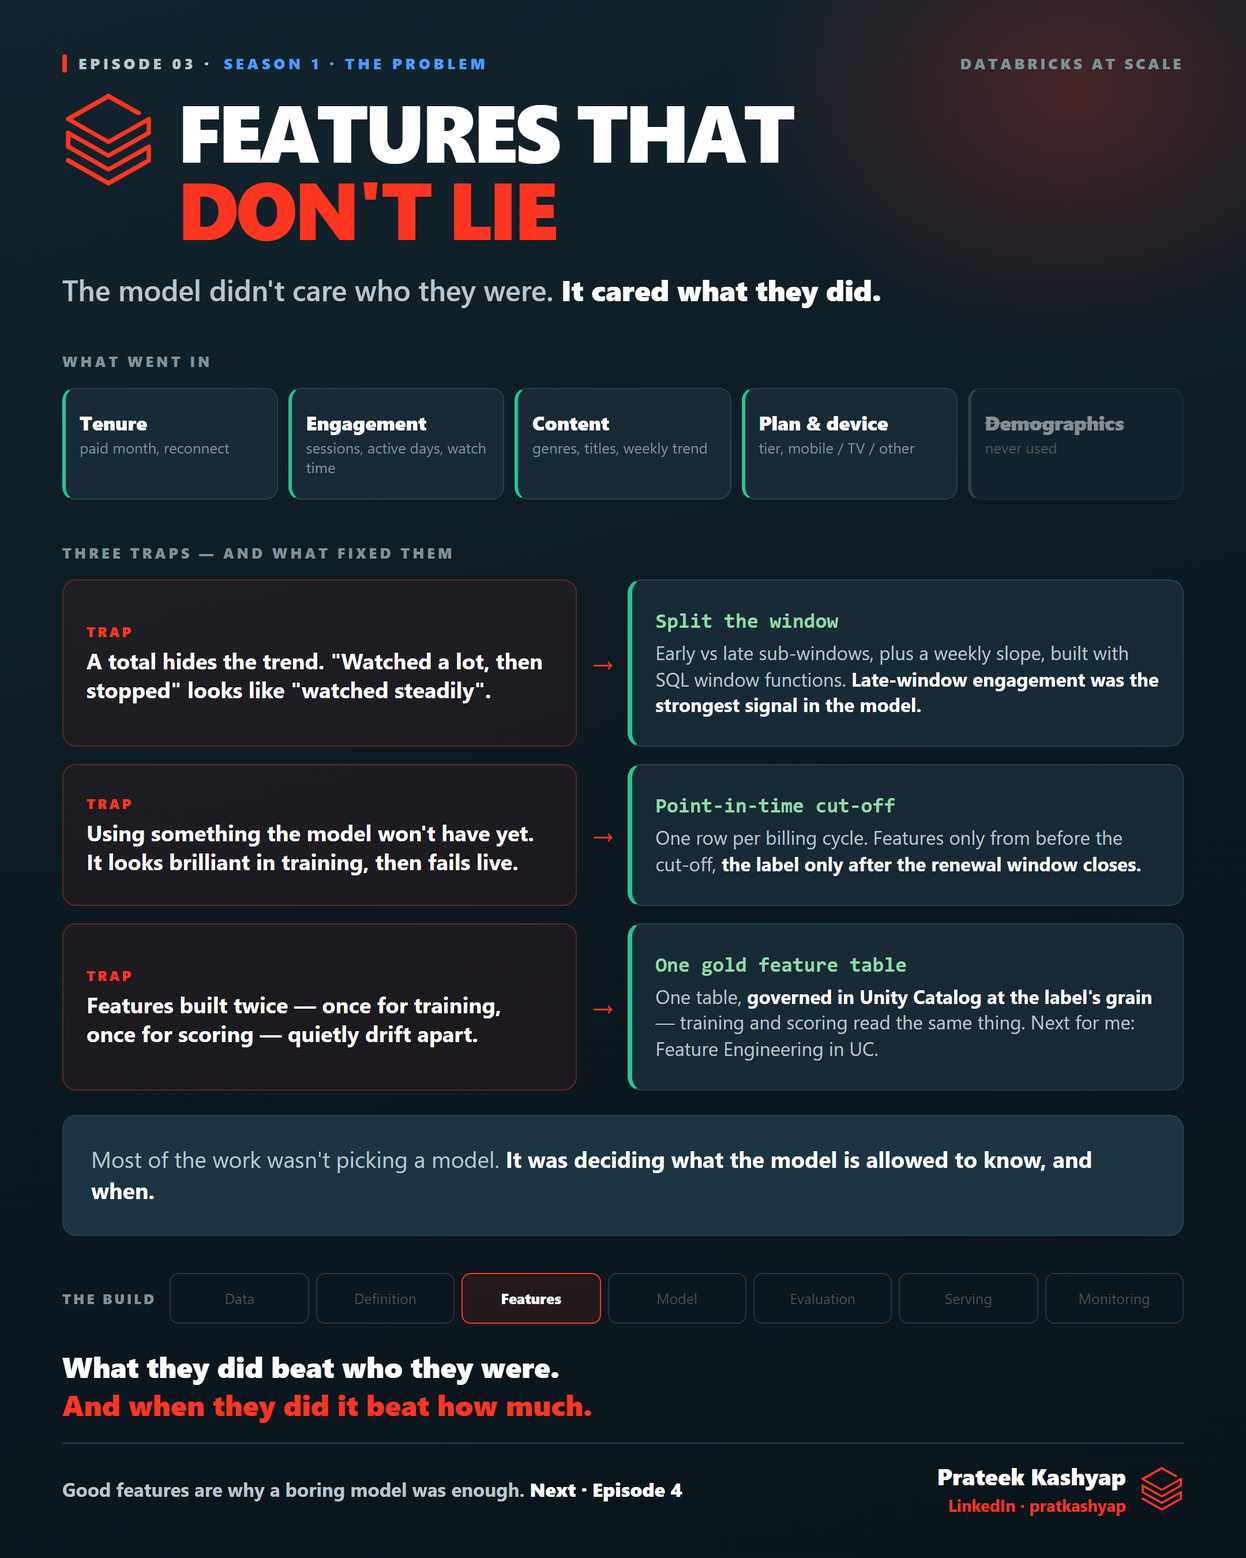
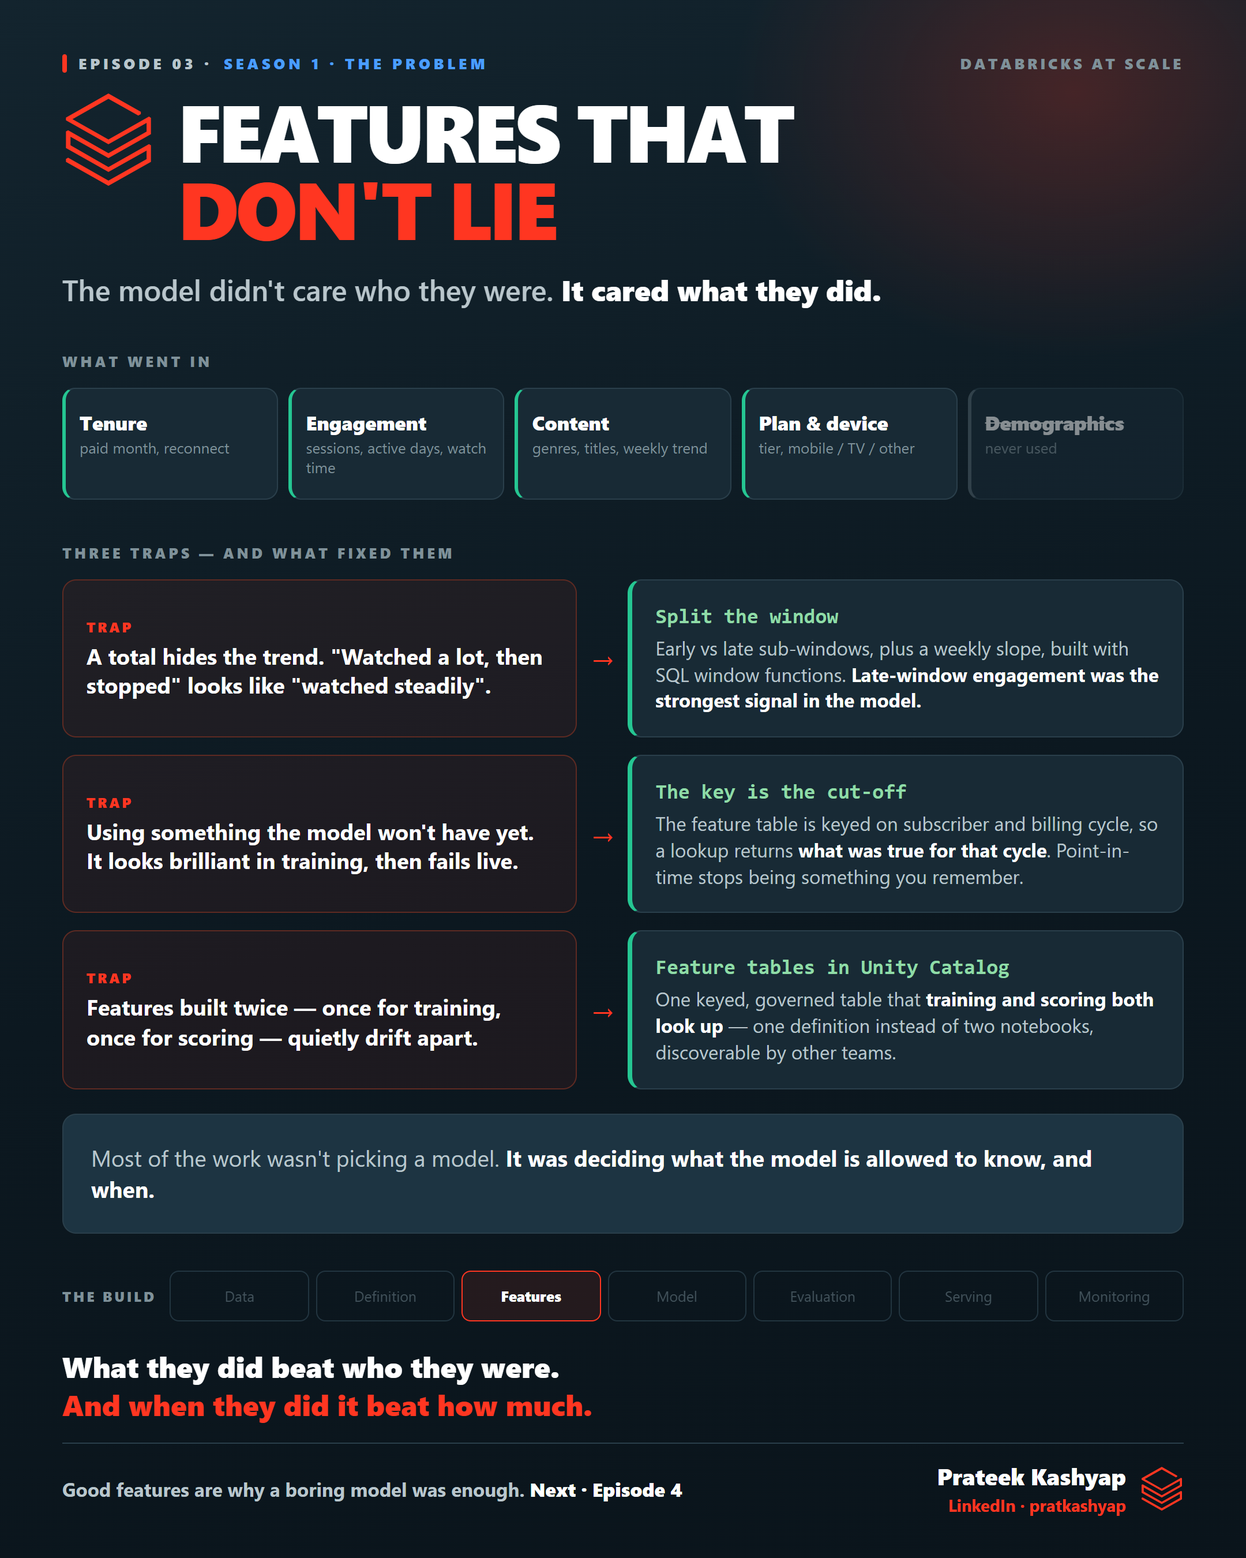
Correction: Feature Engineering in Unity Catalog was used; rebuild Episode 03
Prateek confirmed he registered feature tables in Unity Catalog and used them
for training and scoring. The discovery doc said the opposite (Q18, flagged as
partly inferred) and that error had shaped the whole episode.

- Trap 2's answer is now "let the key carry the cut-off" - the feature table is
  keyed on subscriber and billing cycle, so a lookup returns what was true for
  that cycle
- Trap 3's answer is now feature tables in Unity Catalog: one keyed, governed
  table that training and scoring both look up
- "Next for me" moves from the Feature Store to online lookup
- learn.md gains a proper section on feature tables - the declared key, shared
  lookups, governance and lineage, and reuse by other teams
- docs/private corrected in place, old answer struck through not deleted
- Rule added: confirm every partially-inferred discovery answer before it
  shapes an episode

diff --git a/episodes/03-features-that-dont-lie/ep03-poster.html b/episodes/03-features-that-dont-lie/ep03-poster.html
@@ -42,11 +42,11 @@
 
   /* problem -> answer */
   .pair{display:grid;grid-template-columns:1fr 44px 1.08fr;align-items:stretch;margin-bottom:15px}
-  .pb{background:rgba(255,54,33,.07);border:1.5px solid #5e2a22;border-radius:12px;padding:24px 20px;display:flex;flex-direction:column;justify-content:center}
+  .pb{background:rgba(255,54,33,.07);border:1.5px solid #5e2a22;border-radius:12px;padding:20px 20px;display:flex;flex-direction:column;justify-content:center}
   .pb .n{font-size:12px;font-weight:800;letter-spacing:.16em;text-transform:uppercase;color:var(--red);margin-bottom:5px}
   .pb .t{font-size:19px;font-weight:700;line-height:1.32;color:#fff}
   .ar{display:flex;align-items:center;justify-content:center;color:var(--red);font-size:24px;font-weight:700}
-  .an{background:var(--card);border:1.5px solid var(--line);border-left:4px solid var(--good);border-radius:12px;padding:24px 20px}
+  .an{background:var(--card);border:1.5px solid var(--line);border-left:4px solid var(--good);border-radius:12px;padding:20px 20px}
   .an .tool{font-family:Consolas,"SF Mono",Menlo,monospace;font-size:18px;font-weight:700;color:#8fdba7}
   .an .t{font-size:16.5px;color:var(--ink2);line-height:1.38;margin-top:5px}
   .an .t b{color:#fff}
@@ -102,15 +102,15 @@
   <div class="pair">
     <div class="pb"><div class="n">Trap</div><div class="t">Using something the model won't have yet. It looks brilliant in training, then fails live.</div></div>
     <div class="ar">→</div>
-    <div class="an"><div class="tool">Point-in-time cut-off</div>
-      <div class="t">One row per billing cycle. Features only from before the cut-off, <b>the label only after the renewal window closes.</b></div></div>
+    <div class="an"><div class="tool">The key is the cut-off</div>
+      <div class="t">The feature table is keyed on subscriber and billing cycle, so a lookup returns <b>what was true for that cycle</b>. Point-in-time stops being something you remember.</div></div>
   </div>
 
   <div class="pair">
     <div class="pb"><div class="n">Trap</div><div class="t">Features built twice — once for training, once for scoring — quietly drift apart.</div></div>
     <div class="ar">→</div>
-    <div class="an"><div class="tool">One gold feature table</div>
-      <div class="t">One table, <b>governed in Unity Catalog at the label's grain</b> — training and scoring read the same thing. Next for me: Feature Engineering in UC.</div></div>
+    <div class="an"><div class="tool">Feature tables in Unity Catalog</div>
+      <div class="t">One keyed, governed table that <b>training and scoring both look up</b> — one definition instead of two notebooks, discoverable by other teams.</div></div>
   </div>
 
   <div class="rule">Most of the work wasn't picking a model. <b>It was deciding what the model is allowed to know, and when.</b></div>

diff --git a/episodes/03-features-that-dont-lie/ep03-learn.md b/episodes/03-features-that-dont-lie/ep03-learn.md
@@ -87,6 +87,8 @@ Three rules that prevent it:
 
 This is **point-in-time correctness**: every row answers "what did we know at the moment we'd have had to decide?" Get it wrong and every number downstream — the metric in Episode 05, the business case in Episode 09 — is inflated.
 
+The thing that made this reliable rather than careful was **putting the period into the key**. The feature table is keyed on subscriber *and* billing cycle, so looking up features for a row returns what was true for that cycle. Correctness comes from the structure rather than from remembering to filter dates in every new query — which is the kind of discipline that survives other people joining the project.
+
 ## 6. Trap 3 — features built twice drift apart
 
 In this project the features are built in SQL and published as a **gold feature table**, then the training notebook does the last mile: one-hot encoding the categories, log-scaling the skewed counts, filling the gaps.
@@ -98,11 +100,22 @@ Two defences:
 - **One governed table** that both training and scoring read, rather than two notebooks each building their own. It lives in Unity Catalog at the same grain as the label, so the two join cleanly, the access rules are the same as the rest of the data, and another team can discover and reuse it instead of rebuilding it.
 - **Shared code for the last mile.** The encoding and filling rules live in one importable place, not copy-pasted into two scripts.
 
-### What I'd do differently, and am learning next
+### Feature tables in Unity Catalog
 
-Databricks has a product for exactly this: **Feature Engineering in Unity Catalog** (the Feature Store). A feature table there has a **primary key and a timestamp**, so the platform can do a *point-in-time lookup* — fetch each row's features as they were at that moment — and serve the same definitions at scoring time.
+This is where the platform does real work, and it's the part I'd most recommend to anyone starting now.
 
-I hand-rolled all of that. It works, but the correctness depends on my SQL rather than on the platform. Moving the assembled features into a UC feature table is the clearest upgrade in the whole project, and it's next on my list.
+A **feature table** in Unity Catalog isn't just a table that happens to contain features. It is registered as a feature table, which means:
+
+- It has a **declared primary key**. Here that key is subscriber plus billing cycle — the same grain as the label — so a lookup can only return the right row for the right period.
+- Training and scoring **look up the same table** rather than each rebuilding features. That removes the most common cause of skew at its source.
+- It carries the **governance and lineage** of everything else in Unity Catalog: the same access rules, and a visible link from the features to the model that used them.
+- Other teams can **discover and reuse it**. A feature someone else has already defined, tested and monitored is worth more than a better one you build privately.
+
+The lesson that transfers: a feature table is a *contract between training and scoring*, in the same way Episode 01's metric definition was a contract between teams. Both work for the same reason — the definition lives in one governed place instead of being re-derived by whoever needs it next.
+
+### What's next for me
+
+Today the lookups happen in batch: features are fetched when the nightly scoring job runs. The next step is **online lookup**, so the same features can answer a real-time question — a decision at the moment someone clicks cancel, rather than a score computed last night.
 
 ## 7. What it cost
 
@@ -111,7 +124,7 @@ I hand-rolled all of that. It works, but the correctness depends on my SQL rathe
 | Behaviour over demographics | A stronger model, no personal data to govern | Nothing to say about subscribers with almost no activity |
 | Splitting the window | The single strongest signal in the model | Many more columns to build and monitor |
 | Strict point-in-time cut-off | Numbers that survive contact with production | Lower training scores — honest ones |
-| Hand-rolled feature table | Full control, no new product to learn | Correctness rests on my code, and the last mile can drift |
+| Feature tables in Unity Catalog | One definition for training and scoring, with governance and lineage | A product to learn, and feature changes now need versioning discipline |
 
 ## 8. What you can copy
 
@@ -120,7 +133,7 @@ I hand-rolled all of that. It works, but the correctness depends on my SQL rathe
 - [ ] Check every feature against one question: *would I have had this value at prediction time?*
 - [ ] Keep the **last mile of transformation in one shared place**, not in two notebooks
 - [ ] Test behaviour features before enriching demographics — behaviour usually wins
-- [ ] If you're starting now, use a **feature store with a primary key and timestamp** rather than hand-rolling point-in-time logic
+- [ ] Register features as a **feature table with a declared key**, rather than a plain table you join by hand — the key is what makes correctness structural
 
 ## 9. Key terms
 

diff --git a/.claude/skills/databricks-at-scale/SKILL.md b/.claude/skills/databricks-at-scale/SKILL.md
@@ -37,7 +37,7 @@ Trailer 00 (posted 2026-09-11) · **S1 The Problem:** 01 Nobody agreed what chur
 
 ## Building an episode
 
-1. Read `PROGRESS.md`, `design/design-log.md` §3 (settled rules) and `docs/private/discovery_answers.md` for the facts.
+1. Read `PROGRESS.md`, `design/design-log.md` §3 (settled rules) and `docs/private/discovery_answers.md` for the facts. **Any answer there flagged 🟡 *partially known / templated* must be confirmed with Prateek before it shapes an episode** — one such answer (Feature Store) was wrong and reshaped Episode 03.
 2. **`learn.md`**: situation → why it matters → the concepts → the decision in the project → the Databricks part (with illustrative SQL or code using generic names) → what it cost → what you can copy → key terms → check yourself → next episode.
 3. **`epNN-post.md`**: summarise `epNN-learn.md` in **the house style set by the published trailer** (design-log Ref 06 and **Ref 07**, which has the finalised template — heading line `Databricks at Scale · Ep N · Title`, no blank line after it, lead-ins merged onto their first sentence, a space before colons, no repo-link line, long tag block): no emoji in the body, no capitalised headings, no separator lines, short paragraphs, bold key phrases only, `→` lists, a bold sentence lead-in ending in `:` for each section, a one-line forward pointer to the next episode, then about 10 hashtags. Say "Intelligent Churn Prediction System" and "Global markets". Bold with Unicode (convert `**x**` markers with the bold map; see `design-log.md`). Keep product names and "Databricks" in plain text in the body so search can find them. Aim for 1,500–2,200 of LinkedIn's 3,000 characters, and make sure the first 210 characters carry the hook.
 4. **`poster.html`**: **the three-band template** — (1) *the problem*: a source → three real failures → the consequence; (2) *the fix*: the Databricks answer as the middle band, drawn as boxes with arrows; (3) *the decision*: two cards. Then the build strip, the takeaway, the footer. **No code on posters** — code lives in `learn.md`. Aim for 150–200 words. Netflix style with a dark Databricks-navy gradient, the logo on the title line, 1080×1350 and minimal text. **Every poster must pass three checks:** (a) the *logo test* — cover the logo and something still identifies Databricks; (b) the series name appears on it; (c) at least one **concrete mechanism** — a real name, command or snippet — not just a claim like "governed". Carry the **"you are here" stack strip** (churn label → features → training → registry → scores → monitoring, with Unity Catalog and Asset Bundles beneath), lighting this episode's box and dimming the rest. Export with `python design/export_png.py episodes/NN-name/poster.html`, fix any overflow warning, then **look at the PNG**.
@@ -71,6 +71,7 @@ Trailer 00 (posted 2026-09-11) · **S1 The Problem:** 01 Nobody agreed what chur
 - **2026-09-11**: Skill created. Trailer posted. Episode 01 drafted. Repo pushed to GitHub (private). Structure: `learn.md` is the detailed doc and `post.md` is the summary. PNG export moved to a Playwright script, because headless Edge was unreliable.
 - **2026-09-11**: Full brand-name scan (all files, git history, GitHub metadata): clean. "No employer or brand names" made an explicit rule. `LinkedIn Posters/` renamed to `LinkedIn/`, and each episode folder now holds post, poster and article.
 - **2026-09-11**: Repo made public at Prateek's request.
+- **2026-10-22**: Correction — Feature Engineering in UC *was* used; Episode 03 rebuilt around feature tables and the discovery doc fixed. Confirm 🟡 answers before building.
 - **2026-10-22**: Episode 03 built. Added `design/check_repo.py` after a spacing regression and four broken links slipped through; it now runs before every push.
 - **2026-09-29**: House style captured from the published trailer (Ref 06) and applied to Episodes 01 and 02; the trailer is now recorded verbatim as published.
 - **2026-09-29**: When editing files in place, encode the text before opening the file for writing. A failed write truncated `design-log.md` to zero bytes and it had to be restored from git.

diff --git a/episodes/03-features-that-dont-lie/ep03-post.md b/episodes/03-features-that-dont-lie/ep03-post.md
@@ -1,7 +1,7 @@
 # Episode 03 · LinkedIn post
 
 > The four feature families, then each trap paired with its fix, then the bridge into Episode 04. The poster shows the same families and the same three pairs.
-> Copy the box, paste into LinkedIn, attach [`ep03-poster.png`](ep03-poster.png). **2,322 of 3,000 characters.** Full detail: [`ep03-learn.md`](ep03-learn.md).
+> Copy the box, paste into LinkedIn, attach [`ep03-poster.png`](ep03-poster.png). **2,649 of 3,000 characters.** Full detail: [`ep03-learn.md`](ep03-learn.md).
 
 ```
 𝗗𝗮𝘁𝗮𝗯𝗿𝗶𝗰𝗸𝘀 𝗮𝘁 𝗦𝗰𝗮𝗹𝗲 · 𝗘𝗽 𝟯 · 𝗙𝗲𝗮𝘁𝘂𝗿𝗲𝘀 𝘁𝗵𝗮𝘁 𝗱𝗼𝗻'𝘁 𝗹𝗶𝗲
@@ -34,13 +34,15 @@ No demographics. What people did predicted leaving far better than who they were
 → 𝗦𝗽𝗹𝗶𝘁 𝘁𝗵𝗲 𝘄𝗶𝗻𝗱𝗼𝘄 : early vs late sub-windows and a weekly slope. Late-window engagement turned out to be the strongest signal in the model.
 
 𝟮. Using something the model won't have yet. Brilliant in training, fails live.
-→ A 𝗽𝗼𝗶𝗻𝘁-𝗶𝗻-𝘁𝗶𝗺𝗲 𝗰𝘂𝘁-𝗼𝗳𝗳 : features only from before the cut-off, the label only after the renewal window closes.
+→ 𝗟𝗲𝘁 𝘁𝗵𝗲 𝗸𝗲𝘆 𝗰𝗮𝗿𝗿𝘆 𝘁𝗵𝗲 𝗰𝘂𝘁-𝗼𝗳𝗳 : the feature table is keyed on subscriber and billing cycle, so a lookup returns what was true for that cycle. Point-in-time correctness stops being something you have to remember.
 
 𝟯. Features built twice — once for training, once for scoring — quietly drift apart.
-→ 𝗢𝗻𝗲 𝗴𝗼𝗹𝗱 𝗳𝗲𝗮𝘁𝘂𝗿𝗲 𝘁𝗮𝗯𝗹𝗲, governed in Unity Catalog at the same grain as the label, so training and scoring read the same thing — and other teams can find it.
+→ 𝗙𝗲𝗮𝘁𝘂𝗿𝗲 𝘁𝗮𝗯𝗹𝗲𝘀 𝗶𝗻 𝗨𝗻𝗶𝘁𝘆 𝗖𝗮𝘁𝗮𝗹𝗼𝗴 : one keyed, governed table that training and scoring both look up. One definition, not two notebooks — and other teams can find and reuse it.
 
 
-𝗡𝗲𝘅𝘁 𝗳𝗼𝗿 𝗺𝗲: Feature Engineering in Unity Catalog, so point-in-time lookups are the platform's job instead of mine.
+This is the part I'd most recommend to anyone starting now. A feature table is not just a table with features in it : the key, the governance and the lineage back to the model are what stop quiet drift.
+
+𝗡𝗲𝘅𝘁 𝗳𝗼𝗿 𝗺𝗲: online lookups, so the same features can serve a real-time decision and not only tonight's batch.
 
 𝗪𝗵𝗮𝘁 𝗶𝘁 𝗰𝗼𝘀𝘁: lower training scores. Honest ones.
 
@@ -51,12 +53,12 @@ Good features are why a boring model was enough.
 
 Next Episode 4 · 𝗪𝗵𝘆 𝘁𝗵𝗲 𝗯𝗼𝗿𝗶𝗻𝗴 𝗺𝗼𝗱𝗲𝗹 𝘄𝗼𝗻 drops next week.
 
-#Databricks #DataScience #MachineLearning #Analytics #Lakehouse #FeatureStore #dataengineering #mlops #churn #SingaporeAI #agenticAI Databricks Anthropic Microsoft Microsoft Copilot #Dubai #Singapore #TechinAsia #claude #claudecode #cursor Cursor
+#Databricks #DataScience #MachineLearning #Analytics #Lakehouse #FeatureStore #UnityCatalog #mlops #churn #SingaporeAI #agenticAI Databricks Anthropic Microsoft Microsoft Copilot #Dubai #Singapore #TechinAsia #claude #claudecode #cursor Cursor
 ```
 
 ## Before you post
 
+- [ ] **Check the detail before a commenter does:** the post says the feature table is keyed on subscriber and billing cycle. If you also declared a *timestamp key* and used `create_training_set()`, that is worth saying in the comments — it is the strongest Databricks-specific point in this episode
 - [ ] Truth check: every claim is something that actually happened
-- [ ] Feature Engineering in Unity Catalog is framed as **next**, never as something already used
 - [ ] Nothing names the employer, its brands, markets or figures
 - [ ] Reply to every comment in the first hour

diff --git a/PROGRESS.md b/PROGRESS.md
@@ -30,6 +30,7 @@ In order:
 | 2026-09-11 | Episode 01 drafted: learning doc, post, poster and cert prep. Files reorganised. `PROGRESS.md` and the project skill created. Repo pushed to GitHub (private) |
 | 2026-09-11 | Brand-name scan of every file, the git history and GitHub: clean. `LinkedIn Posters/` renamed `LinkedIn/` and now holds post, poster and article per episode |
 | 2026-09-11 | Repo made **public**. Confirmed it opens without signing in |
+| 2026-10-22 | **Correction:** Prateek confirmed he *did* use Feature Engineering in Unity Catalog. The discovery doc said otherwise (Q18, flagged as partly inferred). Episode 03 rebuilt around feature tables; source doc corrected |
 | 2026-10-22 | **Episode 03 built** (features: the window split, point-in-time cut-off, one feature table). Episode 02 published. Root README repaired — stale file names, "eight markets", and out-of-date statuses |
 | 2026-10-15 | **Episode 01 published.** Its final structure recorded as the post template (design-log Ref 07) and applied to Episode 02, which is ready to post |
 | 2026-09-29 | House style captured from the published trailer and applied to all posts. Trailer recorded as published |
@@ -75,7 +76,7 @@ Each feature belongs to **one** episode, so nothing is spent twice. Features fro
 |---|---|
 | 01 | Unity Catalog · `catalog.schema.table` · governed gold table · `COMMENT ON TABLE` · metric views + Genie *(not used yet → learning next)* |
 | 02 | Delta · medallion and upstream gold · compute: job clusters, Databricks Connect, SQL warehouse, cluster policy, LTS runtime, spot vs on-demand, Photon · `TRY_CAST` and schema drift · Workflows freshness gate |
-| 03 | Feature table design · SQL window functions · the window split · point-in-time correctness and leakage · training/serving skew · Feature Engineering in Unity Catalog *(not used → learning next)* |
+| 03 | **Feature Engineering in Unity Catalog** (used) · feature tables, keys and lookups · SQL window functions · the window split · point-in-time correctness and leakage · training/serving skew · online lookup *(not used → next)* |
 | 04 | MLflow experiments and tracking · model selection · class imbalance |
 | 05 | Evaluation: PR AUC vs lift over base rate · value→action thresholds |
 | 06 | Asset Bundles (one bundle, four targets) · Workflows orchestration · UC model registry with `@champion`/`@candidate` and a statistical promotion gate · predictions table · KS/PSI drift and the retrain trigger · Lakehouse Monitoring and serving endpoints *(not used → next)* |

diff --git a/design/design-log.md b/design/design-log.md
@@ -176,6 +176,17 @@ Length to aim for: **2,100–2,600 characters**. Episode 02 came in at 2,405.
 
 ---
 
+### Episode 03, third pass — a source-document error, caught by asking
+*2026-10-22.* After the second pass, Prateek said: *"honestly I made separate features on Unity Catalog and then it was used."* The discovery doc (Q18) said the opposite — hand-rolled tables, with Feature Engineering in UC as an upgrade path. That answer had been flagged 🟡 *partly inferred*, and it was wrong.
+
+**Why it mattered:** two posts' worth of framing rested on it. Episode 03 was written around "I hand-rolled this, the platform does it better" — which understated the work and removed the single most Databricks-specific thing in the episode.
+
+**What changed:** trap 2's answer became *the key carries the cut-off* (the feature table is keyed on subscriber and billing cycle), trap 3's became *feature tables in Unity Catalog*, and "next for me" moved from the Feature Store to **online lookup**. The private answers file was corrected in place, with the old answer struck through rather than deleted.
+
+**Rule added:** before building an episode, re-check every 🟡 *partially known* answer in the discovery doc with Prateek. Inferred answers are the ones that produce confident, wrong posts.
+
+---
+
 ## 2. What we built, and the verdicts
 
 ### Episode 02 poster · the three-band template, reused — ⏳ AWAITING VERDICT

diff --git a/episodes/03-features-that-dont-lie/README.md b/episodes/03-features-that-dont-lie/README.md
@@ -13,6 +13,6 @@ The model didn't care who subscribers were — it cared what they did. This epis
 | [`ep03-poster.png`](ep03-poster.png) | The visual |
 | [`ep03-cert-prep.md`](ep03-cert-prep.md) | Short recall questions |
 
-**Databricks in this episode:** feature tables · gold layer · SQL window functions · point-in-time correctness · leakage · training/serving skew · Feature Engineering in Unity Catalog *(learning next)*
+**Databricks in this episode:** **Feature Engineering in Unity Catalog** · feature tables and keys · feature lookups · SQL window functions · point-in-time correctness · leakage · training/serving skew · online lookup *(next)*
 
 ← [Episode 02](../02-where-the-data-lives/) · [Episode 04](../04-why-the-boring-model-won/) →
